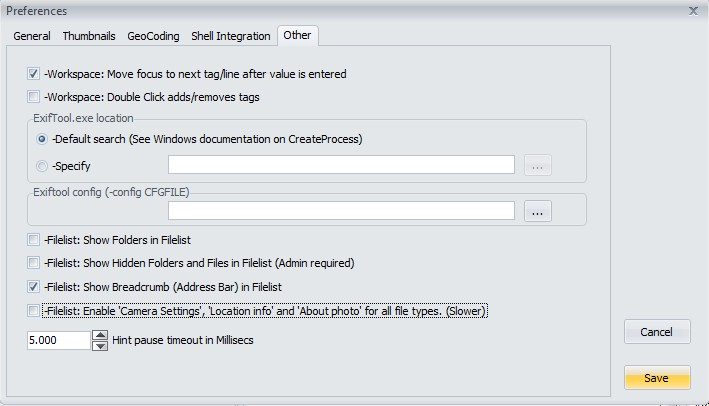
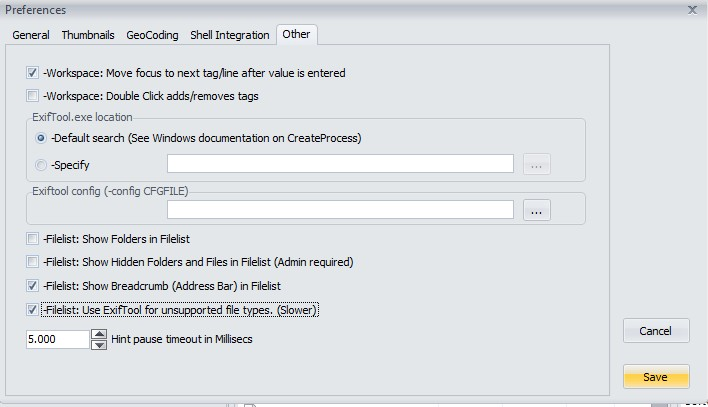
Fix Issues for V6.3.1

diff --git a/Docs/ExifToolGUI_V6.md b/Docs/ExifToolGUI_V6.md
@@ -72,7 +72,7 @@ Basic idea behind GUI is, to keep it <u>simple!</u> Thus, only those options are
 <li>English</li>
 <li>Nederlands</li>
 </ul><ul> Languages that need verification. Your help is wanted.
-<li>Deutsch></li>
+<li>Deutsch</li>
 <li>Italiano</li>
 <li>Français</li>
 <li>Español</li>
@@ -80,6 +80,11 @@ Basic idea behind GUI is, to keep it <u>simple!</u> Thus, only those options are
 </ul>
 <li>Starting with V6.3.0 an installer is provided.</li>
 <li>Support for Exiftool features <u>geolocate</u> and <u>-api geolocation</u>.</li>
+<li>License changed to GPL V3.</li>
+<li>Added options to export and import various definition files. (ExifTool Direct, User defined fields, Custom view etc)</li>
+<li>Added support for Google Pixel Pro 7 in location info</li>
+<li>Feature Request: Display the imported gps file track on the map.</li>
+<li>Improvements searching for places, and reverse geocoding/li>
 </ul>
 <a href="changelog.txt"><b>See changelog.txt for a complete list of issues.</b></a>
 
@@ -312,7 +317,7 @@ The default setting is to only show files in the Filelist panel. If you enable t
 Will also show hidden Folders and Files in the Folder Treeview and the Filelist panels. You need to be Admin to use this, and not everything you see may be readable/writeable.<br><br>
 <b>Filelist: Show Breadcrumb (Address bar) in Filelist</b><br>
 Enable a BreadCrumb bar on top of the filelist. Allows for easier navigating.<br><br>
-<b>Filelist: Enable 'Camera Settings', 'Location info and 'About photo' for all file types. (Slower)</b><br>
+<b>Filelist: Use ExifTool for unsupported file types. (Slower)</b><br>
 If you have set the <b>Details</b> of the filelist panel to any of the above options, GUI will show that info only for known filetypes.<br>
 If a file is not supported, or it does not contain the data, GUI will show 'File type unsupported'.<br>
 Generally speaking this works only for filetypes that have <b>IFD0, ExifIFD or XMP</b> groups. <br>
@@ -403,6 +408,11 @@ However, when saving, name of Workspace definition file can not be
 ExifToolGUIv6.ini -you should use any names that reminds you on content,
  for example: MyWorkspace_XMP.ini.<br>
 <br>
+Starting with V6.3.1 these definitions can also be Loaded and Saved. Its workings are analogous to the Workspace: <br>
+<h3>ExifTool direct definition file: Load/Save</h3>
+<h3>User defined fields definition file: Load/Save</h3>
+<h3>Custom view definition file: Load/Save</h3>
+<h3>Marked tags definition file: Load/Save</h3>
 
 <h3><a name="m_style">Style</a></h3>
 Shows a list of available style/skins. To change the appearance of GUI.<br>
@@ -564,10 +574,12 @@ for that set of photos.<br>
 Note: In this case, it doesn't matter which (of multiple) log file you 
 choose -important is, all log files must have the same extension.<br>
 <br>
-<u>Step 3:</u> Choose <b>Reference DateTime value</b>.<br>
+<u>Step 3:</u> Optional: Show on Map. Use this to visually check the log files.</b>.<br>
+<u>Step 4:</u> Choose <b>Reference DateTime value</b>.<br>
 Here you define which photo DateTime values to compare with those in log file.<br>
 <br>
-<u>Step 4:</u> Choose if <b>TimeZone offset</b> is needed to be taken into account.<br>
+<u>Step 5:</u> Margin before or beyond Track. Use this if time of your images are not within 1800 secs of the track time.<br>
+<u>Step 6:</u> Choose if <b>TimeZone offset</b> is needed to be taken into account.<br>
 This is a funny one... The thing is, log files contain UTC time, while 
 camera is usually set to local time (of where photo is taken). In most 
 cases, we are dealing with two scenarios:<br>
@@ -586,7 +598,7 @@ In both cases above it's assumed, that camera is set to local time of
 where photos are taken. It's also assumed, that when geotagging, your 
 PC/laptop is set to your local (home) TimeZone.<br>
 For further reading/questions see <a href="https://exiftool.org/forum/index.php/topic,3333.0.html">here</a>.<br><br>
-<u>Step 5:</u> Check Update Geo Location, if you wish to update Country, Province and City.<br>
+<u>Step 7:</u> Check Update Geo Location, if you wish to update Country, Province and City.<br>
 Click on <a href="#m_geotag_setup"><b>Setup Geo</b></a> to control how these fields are filled.<br>
 Note: These fields are also shown in the filelist if it's set to 'Location info'.<br>
 <br>
